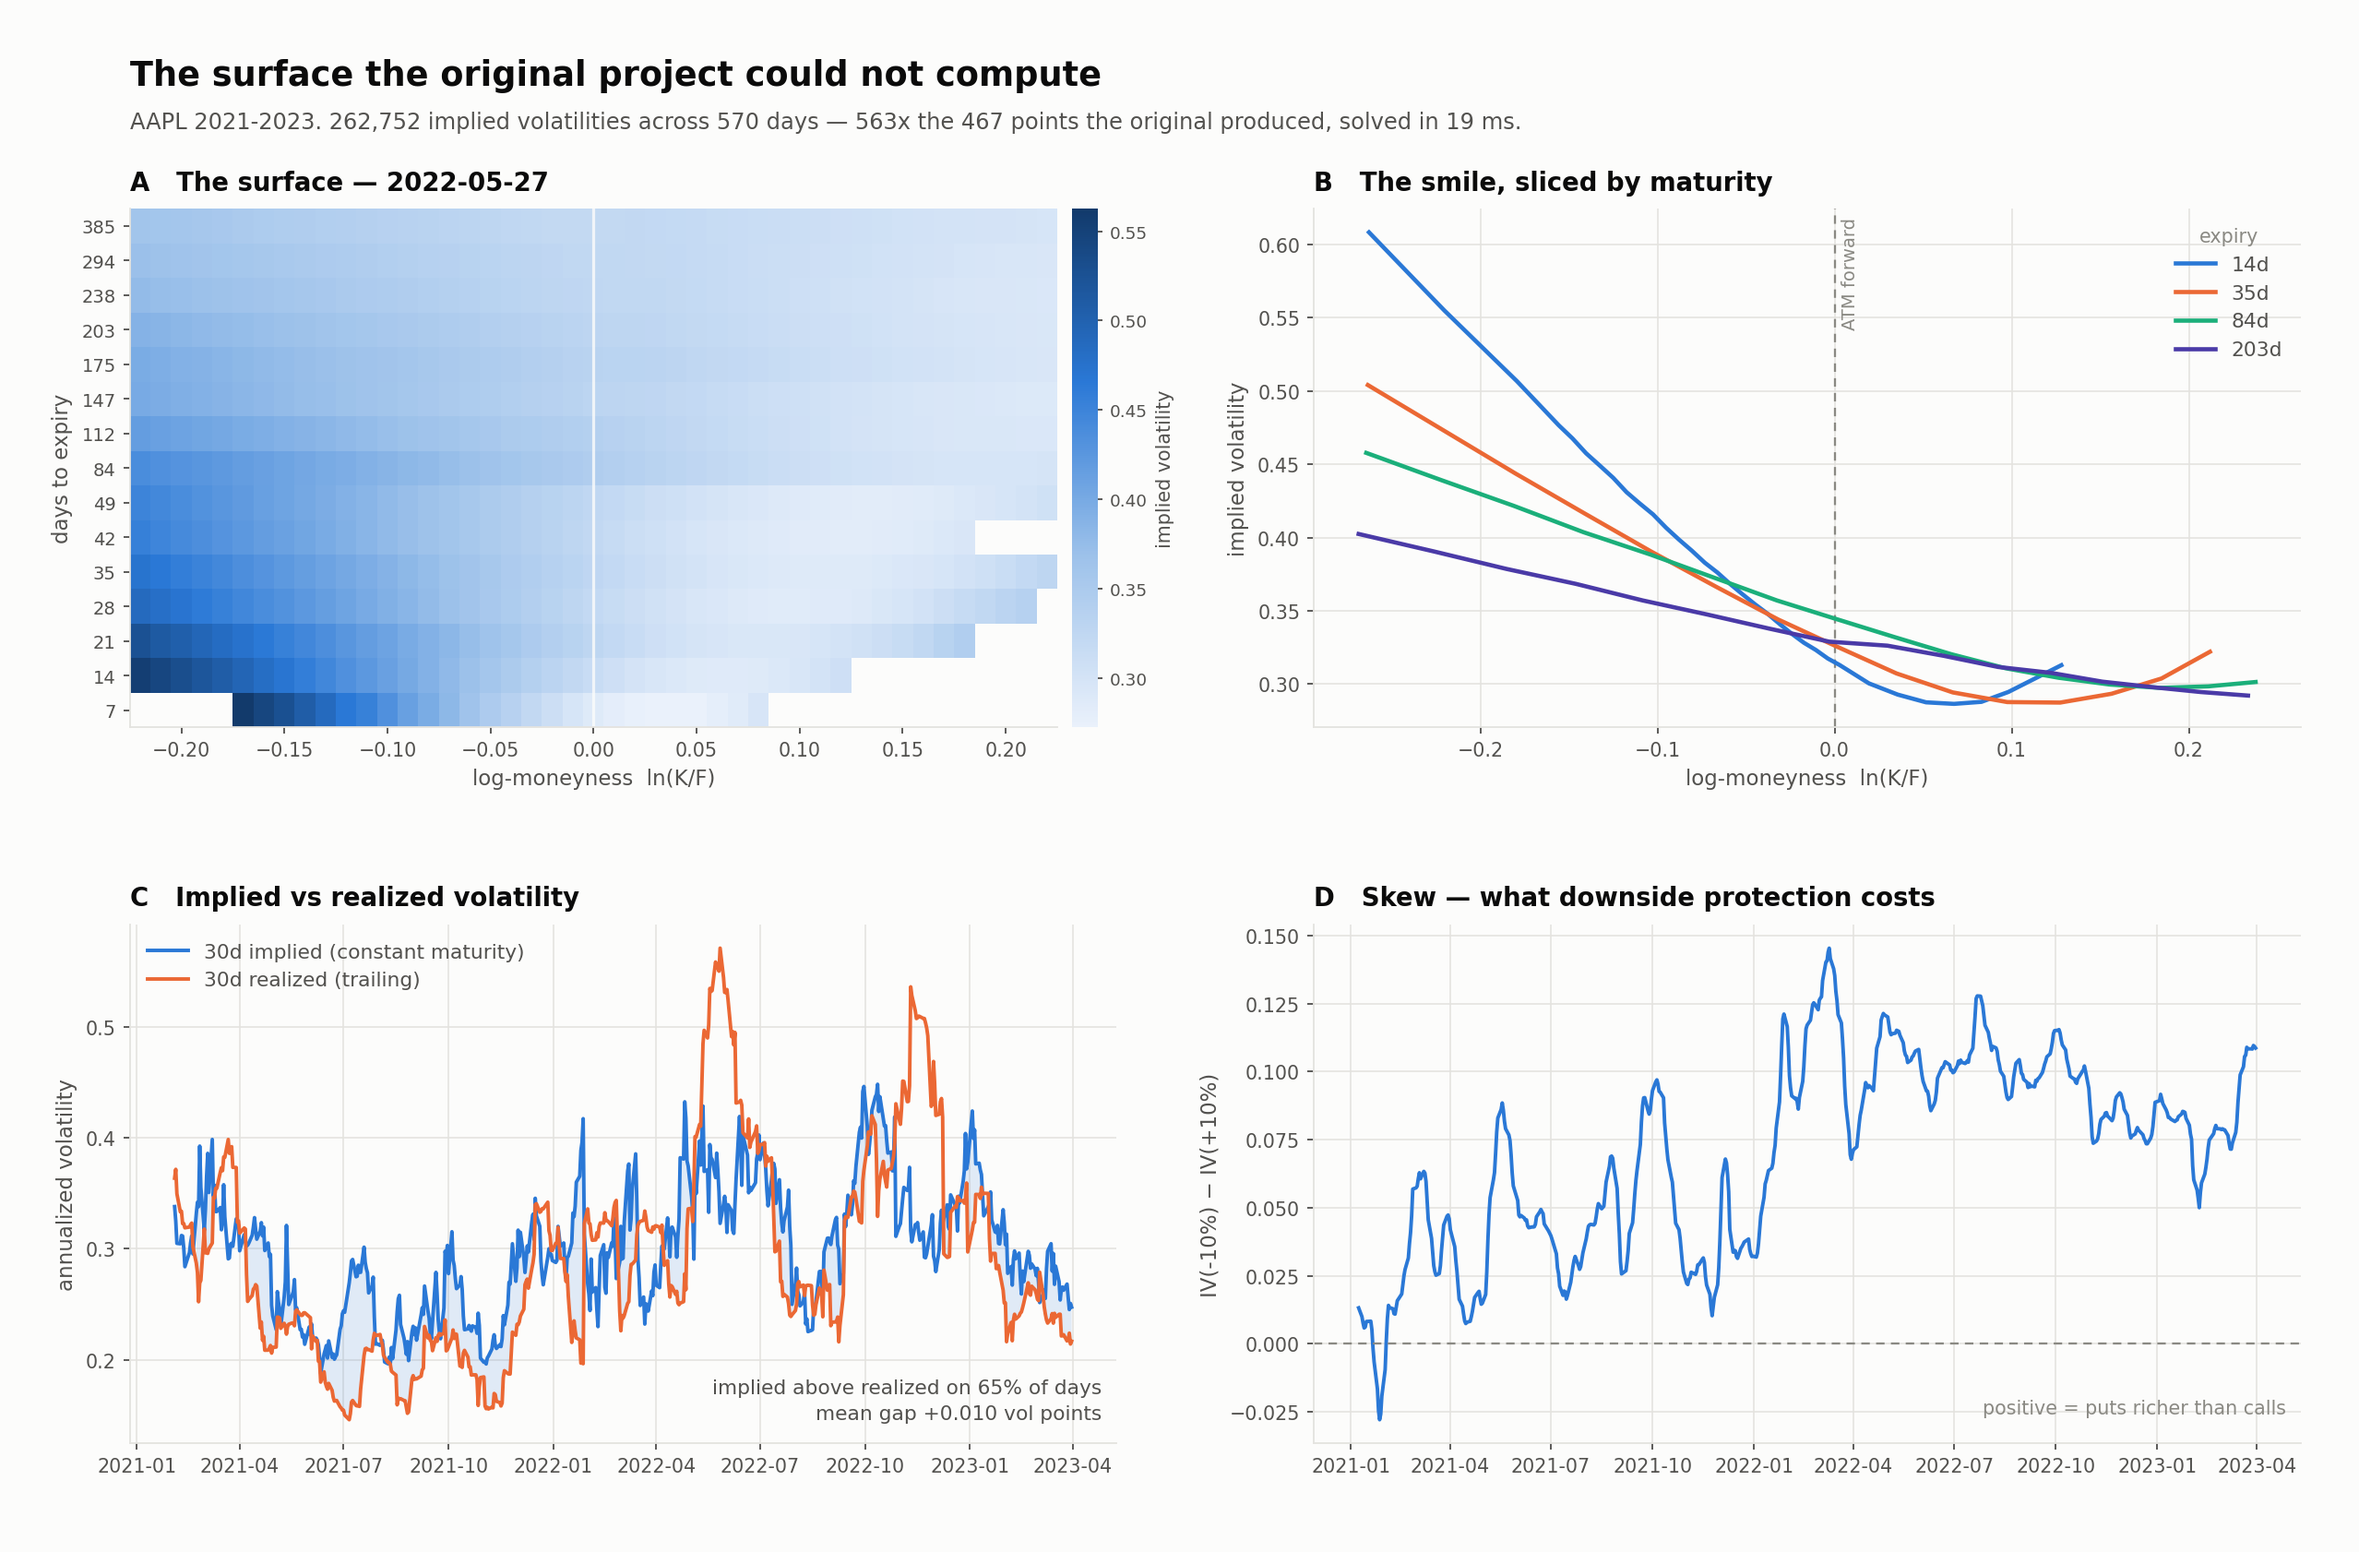
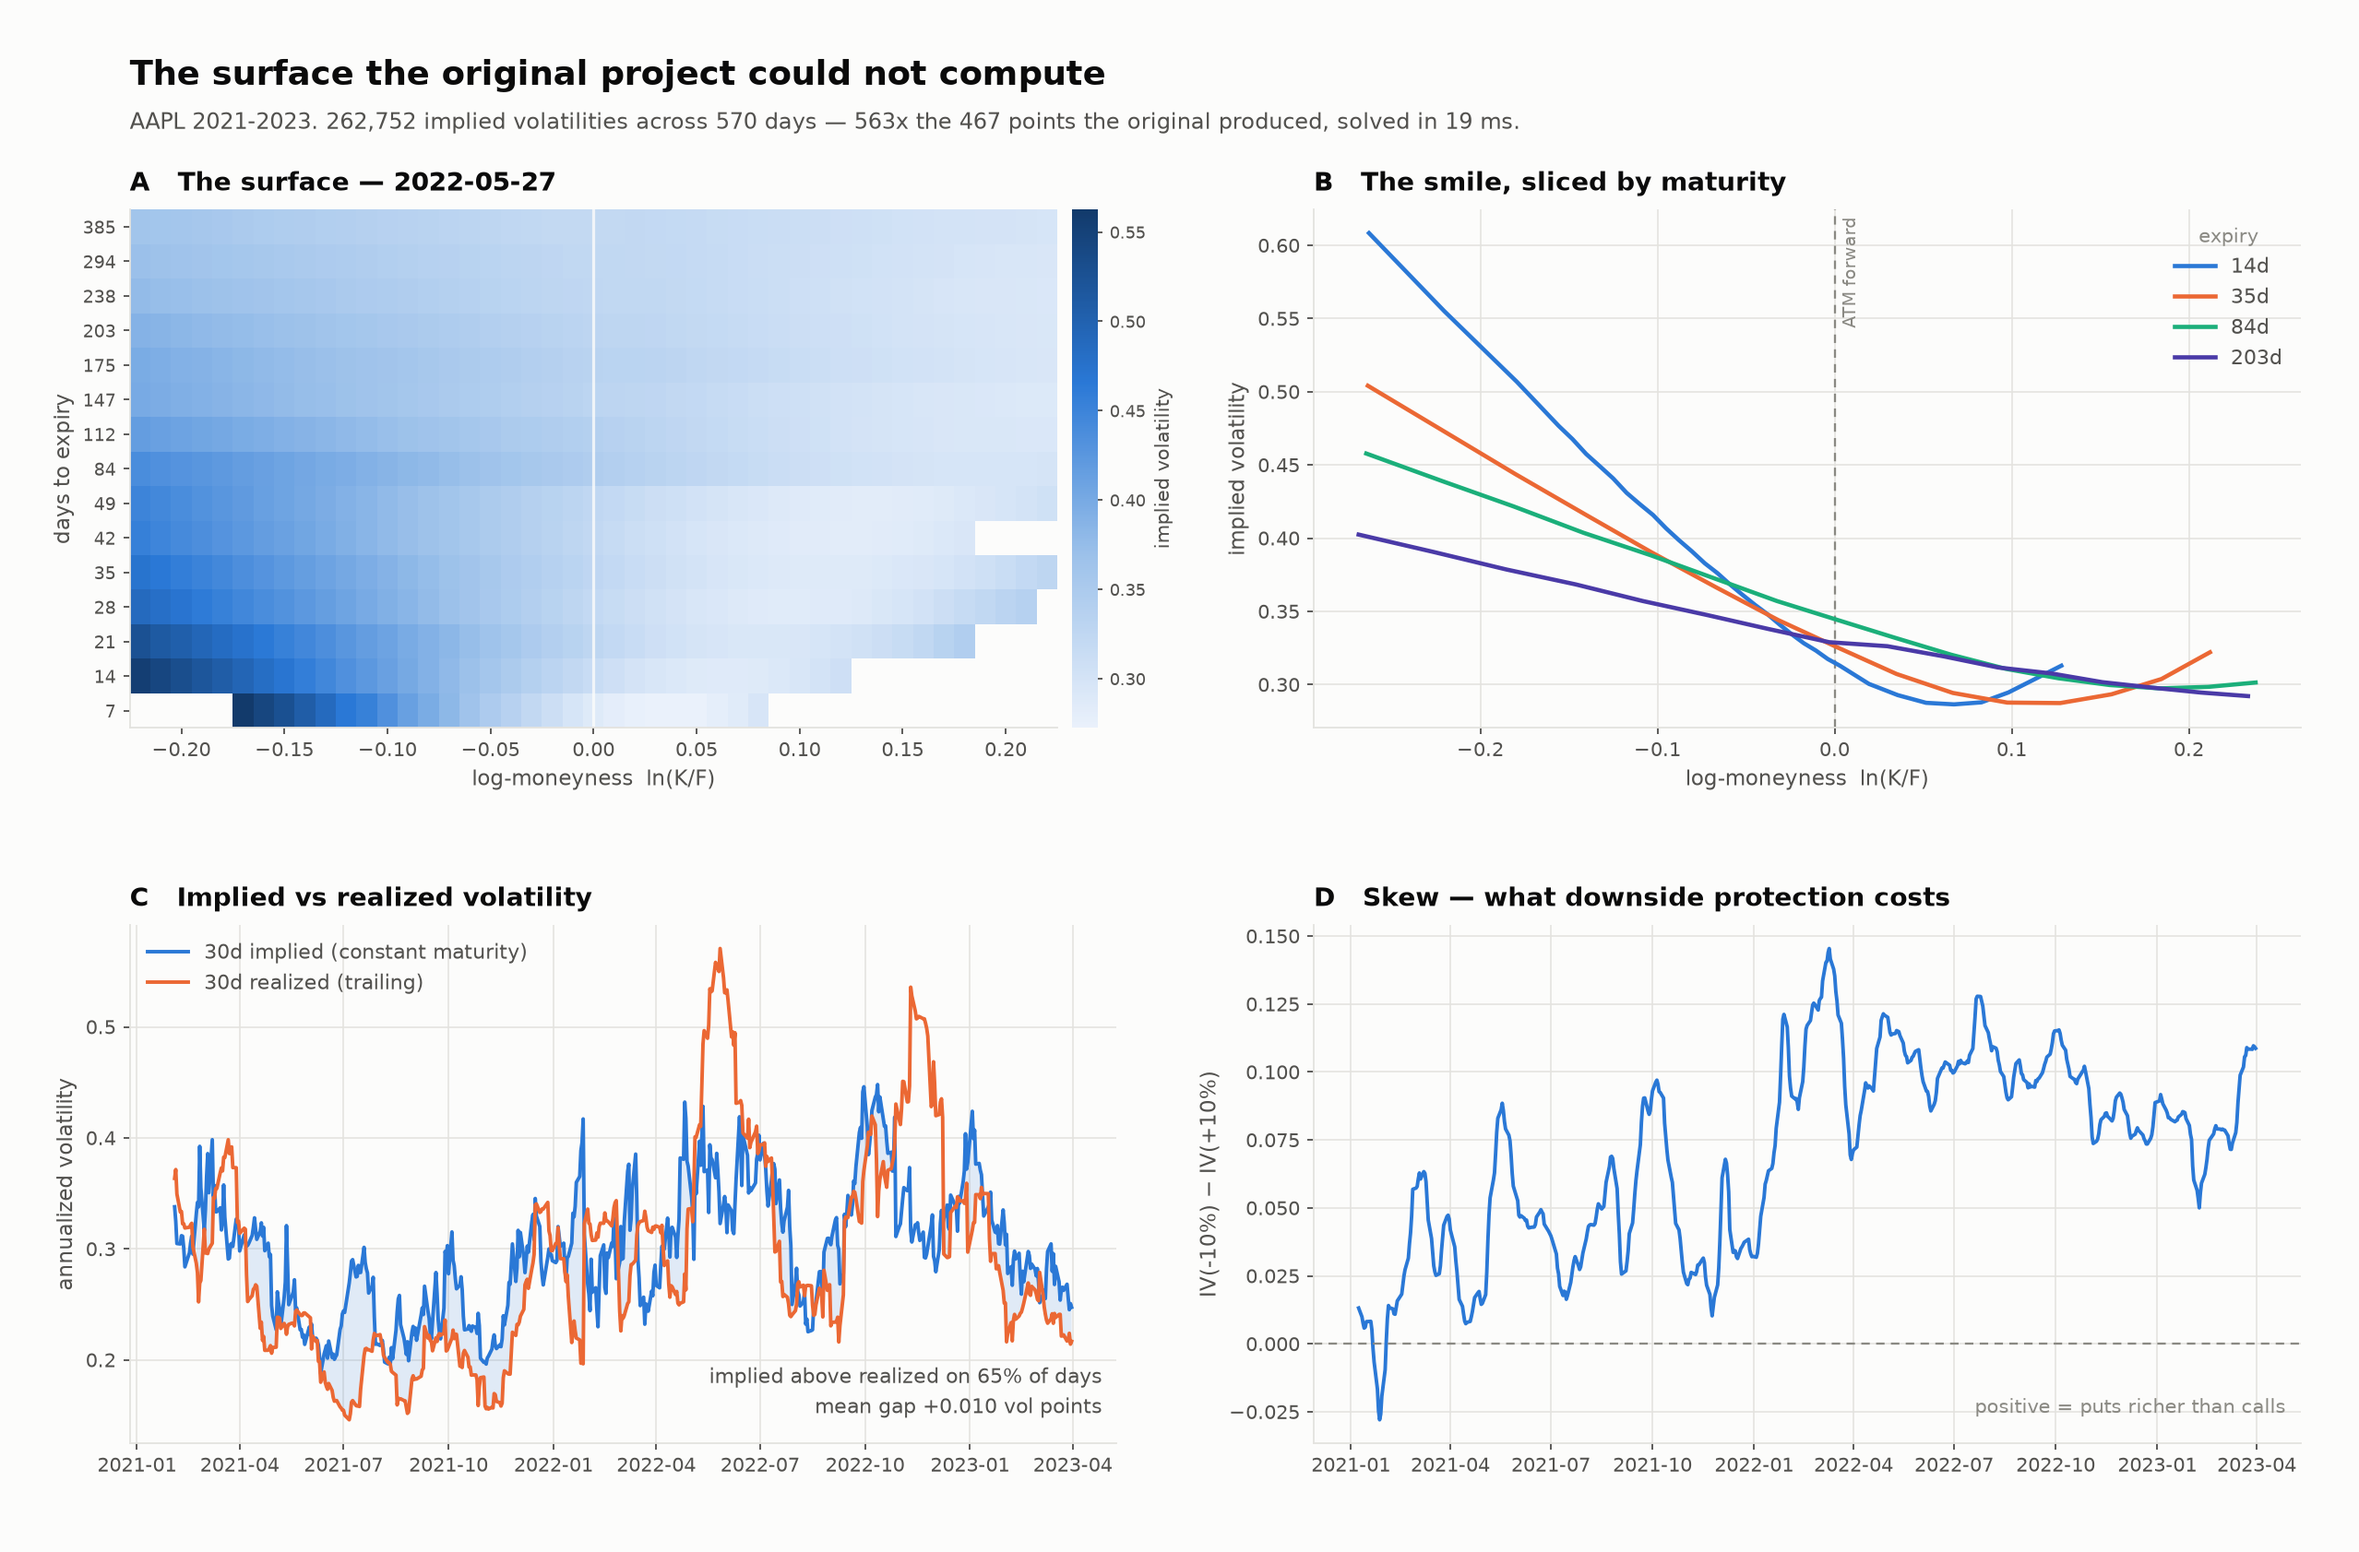
Verify on Windows; add the missing surface-data builder
Fresh clone on a second machine (Windows 11, Python 3.11, NumPy 1.26 -- a
different Python and NumPy major version from where this was written). All 66
tests pass and the validation numbers reproduce to the last digit: median ratio
1.0027, observed day-count bias 0.8309, every quote-quality bucket identical.

The fresh machine also caught a real gap: bench/plot_surface.py depended on four
intermediate Parquet files that had only ever been produced by throwaway inline
scripts and never by anything in the repo, so the README's `python -m
bench.plot_surface` failed from a clean checkout. bench/build_surface.py now
produces them and plot_surface builds them on demand if absent.

Also:
- bench/ladder.py labels the Numba rung with the real cpu count instead of a
  hard-coded 8. This machine has 20 logical cpus and reaches 32.1M/s (33,886x
  over L0) while its single-thread NumPy rungs run ~3x slower than the 8-core
  Mac's -- the ladder's shape is hardware-dependent even though every rung's
  answers are not. README notes the hardware for the quoted numbers.
- bench/validate.py prints "+/-" instead of a Unicode plus-minus, which the
  Windows console codepage rendered as a replacement glyph.
- bench/plot_validation.py had a Devanagari digit inside a hex color literal,
  masked by a .replace(); it is now just the hex string.

diff --git a/bench/build_surface.py b/bench/build_surface.py
@@ -1,0 +1,68 @@
+"""Build the surface-derived series that bench/plot_surface.py draws from.
+
+Produces four Parquet files in the working directory:
+
+    iv_table.parquet   one row per usable strike -- the full surface
+    term.parquet       ATM-forward vol per (date, expiry)
+    skew.parquet       IV(-10%) - IV(+10%) per (date, expiry)
+    iv_hv.parquet      30-day constant-maturity implied vol beside trailing
+                       30-day realized vol, one row per day
+
+Usage:  python -m bench.build_surface [parquet]
+"""
+
+from __future__ import annotations
+
+import sys
+import time
+
+import numpy as np
+import pandas as pd
+
+from ivlib import surface
+from bench.validate import load
+
+OUTPUTS = ("iv_table.parquet", "term.parquet", "skew.parquet", "iv_hv.parquet")
+
+
+def realized_vol(path, window=21):
+    """Trailing annualized realized vol from the underlying's daily closes.
+
+    21 trading days is the customary '30 calendar day' window, and the sqrt(252)
+    annualization is correct here because the returns are per *trading* day --
+    the same convention question as the option's T, answered consistently.
+    """
+    raw = pd.read_parquet(path, columns=["QUOTE_DATE", "UNDERLYING_LAST"])
+    spot = raw.groupby("QUOTE_DATE")["UNDERLYING_LAST"].first().astype(float).sort_index()
+    lr = np.log(spot / spot.shift(1))
+    return (lr.rolling(window).std(ddof=1) * np.sqrt(252)).rename(f"hv{30}")
+
+
+def main(path="aapl_2021_2023.parquet"):
+    t0 = time.perf_counter()
+    df = load(path)
+    tab = surface.build_iv_table(df)
+    print(f"iv table   {len(tab):>9,} rows   {tab['quote_date'].nunique()} days   "
+          f"[{time.perf_counter()-t0:.2f}s]")
+
+    term = surface.atm_term_structure(tab)
+    sk = surface.skew(tab, wing=0.10)
+    print(f"term       {len(term):>9,} (date, expiry) pairs")
+    print(f"skew       {len(sk):>9,} (date, expiry) pairs")
+
+    cm30 = surface.constant_maturity(term, days=30)
+    hv = realized_vol(path)
+    ivhv = cm30.set_index("quote_date").join(hv).dropna()
+    prem = ivhv["atm_iv_30d"] - ivhv["hv30"]
+    print(f"iv vs hv   {len(ivhv):>9,} days   implied above realized on "
+          f"{100*(prem > 0).mean():.1f}% of days, mean gap {prem.mean():+.4f}")
+
+    tab.to_parquet("iv_table.parquet", index=False)
+    term.to_parquet("term.parquet", index=False)
+    sk.to_parquet("skew.parquet", index=False)
+    ivhv.to_parquet("iv_hv.parquet")
+    print(f"wrote {', '.join(OUTPUTS)}")
+
+
+if __name__ == "__main__":
+    main(*sys.argv[1:])

diff --git a/bench/validate.py b/bench/validate.py
@@ -140,10 +140,10 @@ def main(path="aapl_2021_2023.parquet"):
                    float(np.mean(np.abs(r[s] - 1) < 0.02) * 100))
             rows.append(row)
             hi_s = "inf" if hi == np.inf else f"{hi:.3f}"
-            print(f"{f'±{lo:.3f}-{hi_s}':>18}{row[2]:>10,}{row[3]:>9.4f}{row[4]:>7.1f}%")
+            print(f"{f'+/-{lo:.3f}-{hi_s}':>18}{row[2]:>10,}{row[3]:>9.4f}{row[4]:>7.1f}%")
 
     good = unc < 0.02
-    print(f"\nrestricted to quotes the market pins to ±2 vol points "
+    print(f"\nrestricted to quotes the market pins to +/-2 vol points "
           f"({good.sum():,}, {100*good.mean():.1f}%):")
     print(f"  median {np.median(r[good]):.4f}   "
           f"within 2% {100*np.mean(np.abs(r[good]-1)<0.02):.1f}%   "

diff --git a/bench/ladder.py b/bench/ladder.py
@@ -17,6 +17,7 @@ second) is the comparable figure across all rungs.
 from __future__ import annotations
 
 import math
+import os
 import time
 
 import numpy as np
@@ -92,7 +93,7 @@ RUNGS = [
     ("L1  scalar + math.erf", l1, True, "cheaper CDF"),
     ("L2  NumPy vectorized", l2, False, "memory layout"),
     ("L3  NumPy + Corrado-Miller seed", l3, False, "fewer iterations"),
-    ("L4  Numba fused + parallel", l4, False, "registers, 8 cores"),
+    ("L4  Numba fused + parallel", l4, False, f"registers, {os.cpu_count()} cpus"),
 ]
 
 

diff --git a/bench/plot_validation.py b/bench/plot_validation.py
@@ -34,7 +34,7 @@ GRID = "#e4e3df"
 SERIES_1 = "#2a78d6"   # categorical slot 1 -- fixed
 SERIES_2 = "#eb6834"   # categorical slot 2 -- buggy
 # Sequential ramp: one hue, light -> dark. Never a rainbow.
-SEQ = LinearSegmentedColormap.from_list("blues", ["#eaf1fb", "#9cc1ea", "#2a78d6", "#123a६b".replace("६", "6")])
+SEQ = LinearSegmentedColormap.from_list("blues", ["#eaf1fb", "#9cc1ea", "#2a78d6", "#123a6b"])
 
 
 def style(ax):

diff --git a/bench/plot_surface.py b/bench/plot_surface.py
@@ -43,6 +43,10 @@ def style(ax, grid_axis="both"):
 
 
 def main(out="bench/surface.png"):
+    import os
+    from bench.build_surface import OUTPUTS, main as build
+    if not all(os.path.exists(f) for f in OUTPUTS):
+        build()
     tab = pd.read_parquet("iv_table.parquet")
     ivhv = pd.read_parquet("iv_hv.parquet")
     sk = pd.read_parquet("skew.parquet")

diff --git a/README.md b/README.md
@@ -46,7 +46,10 @@ The pipeline is four steps, one module each:
 ## The optimization ladder
 
 Five implementations of the same inversion, same 262,796 real quotes, all
-agreeing to within 1e-11:
+agreeing to within 1e-11. Measured on an 8-core Apple laptop; on a 20-thread
+12th-gen Intel machine the Numba rung reaches 32.1M/s (33,886x) while the
+single-thread NumPy rungs run about 3x slower -- the ladder's *shape* is
+hardware-dependent even though every rung's answers are not.
 
 | rung | M/s | vs L0 | source of the win |
 |---|---|---|---|
